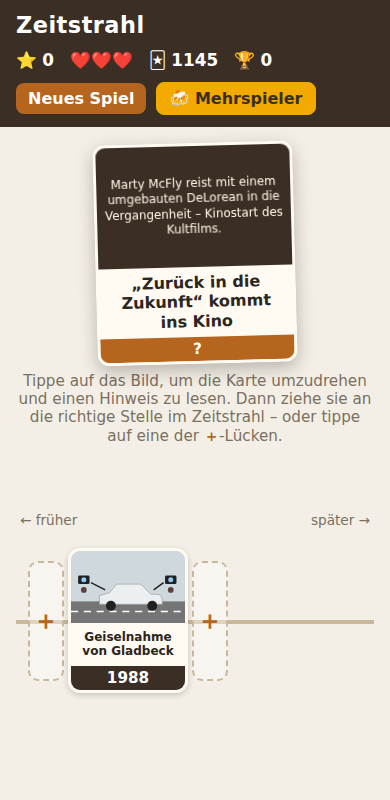
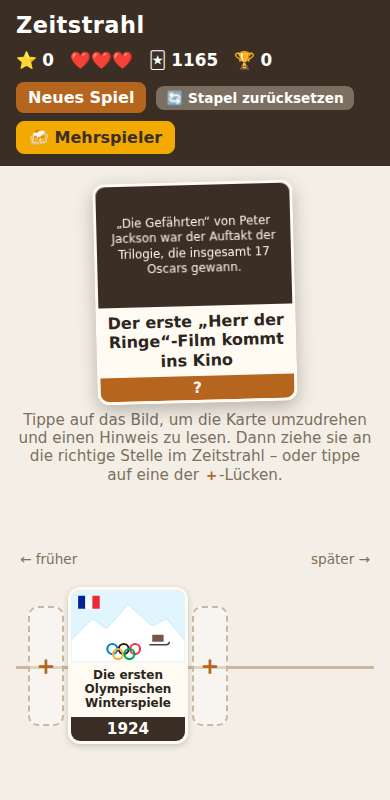
Don't repeat drawn cards across games; add deck reset
- Single player remembers drawn cards in localStorage and only draws
  unplayed ones; "Stapel zurücksetzen" (or an empty deck) restores all
- Multiplayer shows the remaining deck and lets the host reset it
- Header controls wrap on small screens

Claude-Session: https://claude.ai/code/session_01Nr3EjojewoDudnqC8Cy7nP

diff --git a/game.js b/game.js
@@ -4,7 +4,7 @@
   const el = {
     score: $("score"), lives: $("lives"), left: $("left"), best: $("best"),
     current: $("current"), timeline: $("timeline"), feedback: $("feedback"),
-    newGame: $("newGame"),
+    newGame: $("newGame"), resetDeck: $("resetDeck"),
     dialog: $("gameOver"), goTitle: $("goTitle"), goText: $("goText"), again: $("again"),
   };
 
@@ -20,16 +20,45 @@
     set(key, value) { try { localStorage.setItem(key, JSON.stringify(value)); } catch { /* ignore */ } },
   };
 
+  // Bereits gezogene Karten werden gespeichert und tauchen erst nach einem Reset wieder auf
+  const USED_KEY = "timeline-used";
+  const usedIds = () => new Set(storage.get(USED_KEY, []));
+  function markUsed(e) {
+    const used = usedIds();
+    used.add(e.id);
+    storage.set(USED_KEY, [...used]);
+  }
+  function draw() {
+    const e = deck.shift() || null;
+    if (e) markUsed(e);
+    return e;
+  }
+
   function newGame() {
     el.dialog.open && el.dialog.close();
-    deck = TL.shuffle(EVENTS);
-    timeline = [{ event: deck.shift(), state: "start" }];
+    const used = usedIds();
+    let pool = EVENTS.filter((e) => !used.has(e.id));
+    let note = "";
+    if (pool.length < 2) {
+      storage.set(USED_KEY, []);
+      pool = EVENTS;
+      note = "Alle Karten wurden gespielt – der Stapel ist wieder vollständig.";
+    }
+    deck = TL.shuffle(pool);
+    timeline = [{ event: draw(), state: "start" }];
     score = 0;
     lives = START_LIVES;
     locked = false;
-    setFeedback("", "");
-    current = deck.shift() || null;
+    setFeedback(note, "");
+    current = draw();
     render();
+  }
+
+  function resetDeck() {
+    if (!confirm("Alle " + EVENTS.length + " Karten wieder in den Stapel legen und neu starten?")) return;
+    storage.set(USED_KEY, []);
+    newGame();
+    setFeedback("Der Stapel ist wieder vollständig.", "");
   }
 
   function place(index) {
@@ -50,7 +79,7 @@
     }
     timeline.forEach((t) => (t.fresh = false));
     timeline.splice(insertAt, 0, { event: e, state, fresh: true });
-    current = deck.shift() || null;
+    current = lives > 0 ? draw() : null;
     render();
 
     if (lives <= 0 || !current) endGame();
@@ -65,7 +94,8 @@
     el.best.textContent = Math.max(best, score);
     el.goTitle.textContent = lives > 0 ? "Geschafft! 🎉" : "Keine Leben mehr";
     el.goText.textContent = `Du hast ${score} Karte${score === 1 ? "" : "n"} richtig eingeordnet.` +
-      (isRecord ? " Neuer Rekord! 🏆" : ` Dein Rekord: ${best}.`);
+      (isRecord ? " Neuer Rekord! 🏆" : ` Dein Rekord: ${best}.`) +
+      ` Noch ${deck.length} von ${EVENTS.length} Karten im Stapel.`;
     setTimeout(() => el.dialog.showModal(), 900);
   }
 
@@ -92,6 +122,7 @@
   }
 
   el.newGame.addEventListener("click", newGame);
+  el.resetDeck.addEventListener("click", resetDeck);
   el.again.addEventListener("click", newGame);
   newGame();
 })();

diff --git a/multiplayer.js b/multiplayer.js
@@ -16,6 +16,7 @@ const el = {
   lobbyCode: $("lobbyCode"), shareLink: $("shareLink"), copyBtn: $("copyBtn"),
   lobbyPlayers: $("lobbyPlayers"), startBtn: $("startBtn"), lobbyWait: $("lobbyWait"),
   roomInfo: $("roomInfo"), roomCodeTop: $("roomCodeTop"), roundNum: $("roundNum"),
+  deckLeft: $("deckLeft"), resetDeckBtn: $("resetDeckBtn"),
   meter: $("meter"), beer: $("beer"), streakNum: $("streakNum"), stakeText: $("stakeText"),
   tiers: $("tiers"), nextTier: $("nextTier"), floatMsg: $("floatMsg"),
   turnBanner: $("turnBanner"), current: $("current"), mpHint: $("mpHint"), skipBtn: $("skipBtn"),
@@ -260,6 +261,18 @@ function nextRound() {
   });
 }
 
+// Host legt alle Karten (außer denen auf dem aktuellen Zeitstrahl) zurück in den Stapel
+function resetDeck() {
+  if (!confirm("Alle Karten wieder in den Stapel legen?")) return;
+  mutate((r) => {
+    if (r.host !== uid || r.status !== "playing") return;
+    const inPlay = new Set(r.timeline.map((t) => t.id));
+    if (r.current) inPlay.add(r.current);
+    r.deck = TL.shuffle(ALL_IDS.filter((id) => !inPlay.has(id)));
+    return r;
+  });
+}
+
 function skipTurn() {
   mutate((r) => {
     if (r.phase !== "place" || isOnline(r, r.order[r.turn])) return;
@@ -285,6 +298,8 @@ function render() {
   seenMoves = room.moves;
 
   el.roundNum.textContent = room.round || 1;
+  el.deckLeft.textContent = (room.deck || []).filter((id) => byId[id]).length;
+  el.resetDeckBtn.hidden = room.host !== uid;
   renderMeter(isNewMove);
   renderTurn();
   renderScores();
@@ -451,6 +466,7 @@ async function main() {
   el.startBtn.addEventListener("click", startGame);
   el.nextRoundBtn.addEventListener("click", nextRound);
   el.skipBtn.addEventListener("click", skipTurn);
+  el.resetDeckBtn.addEventListener("click", resetDeck);
   el.copyBtn.addEventListener("click", async () => {
     try { await navigator.clipboard.writeText(el.shareLink.value); el.copyBtn.textContent = "Kopiert ✓"; }
     catch { el.shareLink.select(); }

diff --git a/multiplayer.html b/multiplayer.html
@@ -13,6 +13,7 @@
     <div class="stats" id="roomInfo" hidden>
       <span>Raum <b id="roomCodeTop"></b></span>
       <span>Runde <b id="roundNum">1</b></span>
+      <span title="Noch nicht gespielte Karten">🃏 <b id="deckLeft">0</b></span>
     </div>
     <nav class="controls">
       <a class="navlink" href="index.html">← Einzelspieler</a>
@@ -102,6 +103,7 @@
           <div id="current" class="current-slot"></div>
           <p id="mpHint" class="hint"></p>
           <button id="skipBtn" type="button" class="small" hidden>Spieler ist offline – überspringen</button>
+          <button id="resetDeckBtn" type="button" class="small" hidden title="Alle Karten wieder in den Stapel legen">🔄 Stapel zurücksetzen</button>
         </div>
 
         <aside class="scoreboard">

diff --git a/index.html b/index.html
@@ -20,11 +20,12 @@
     <div class="stats">
       <span title="Punkte">⭐ <b id="score">0</b></span>
       <span title="Leben" id="lives"></span>
-      <span title="Verbleibende Karten">🃏 <b id="left">0</b></span>
+      <span title="Noch nicht gespielte Karten im Stapel">🃏 <b id="left">0</b></span>
       <span title="Rekord">🏆 <b id="best">0</b></span>
     </div>
     <div class="controls">
       <button id="newGame" type="button">Neues Spiel</button>
+      <button id="resetDeck" type="button" class="small" title="Alle Karten wieder in den Stapel legen">🔄 Stapel zurücksetzen</button>
       <a class="navlink accent" href="multiplayer.html">🍻 Mehrspieler</a>
     </div>
   </header>

diff --git a/style.css b/style.css
@@ -22,7 +22,8 @@ body {
 }
 .top h1 { margin: 0; font-size: 1.4rem; letter-spacing: .5px; }
 .stats { display: flex; gap: 16px; font-size: 1.05rem; }
-.controls { margin-left: auto; display: flex; gap: 10px; align-items: center; }
+.controls { margin-left: auto; display: flex; flex-wrap: wrap; gap: 8px 10px; align-items: center; }
+.controls button, .controls .navlink { white-space: nowrap; }
 select, button {
   font: inherit; padding: 6px 12px; border-radius: 8px; border: none; cursor: pointer;
 }

diff --git a/README.md b/README.md
@@ -37,6 +37,7 @@ Nach neuen Ereignissen das Skript einfach erneut ausführen.
 - Richtig → +1 Punkt. Falsch → 1 Leben weg, und die Karte wird an der richtigen Stelle (rot) eingefügt.
 - Nach 3 Fehlern oder wenn alle Karten gespielt sind, ist das Spiel vorbei. Der Rekord wird im Browser gespeichert.
 - Vor dem Einordnen kann man auf das Bild tippen: Die Karte dreht sich um und zeigt einen kurzen Hinweis (ohne Jahreszahl).
+- Gezogene Karten kommen nicht wieder in den Stapel – auch nicht im nächsten Spiel. Erst „🔄 Stapel zurücksetzen“ (oder ein leerer Stapel) legt alle Karten zurück. Der Stand wird im Browser gespeichert.
 
 ## Mehrspieler – das Trinkspiel 🍻
 
@@ -57,6 +58,7 @@ Nach neuen Ereignissen das Skript einfach erneut ausführen.
    | ab 12             | 5        |
 
 5. Danach startet eine neue Runde mit frischem Zeitstrahl; der Nächste nach dem Verlierer beginnt.
+6. Der Kartenstapel des Raums läuft über alle Runden weiter – gespielte Karten kommen erst wieder, wenn der Stapel leer ist oder der Host „🔄 Stapel zurücksetzen“ drückt.
    Das Schluck-Konto zählt mit. Ist ein Spieler offline, kann er übersprungen werden.
 
 ### Firebase einrichten (einmalig, kostenlos)
